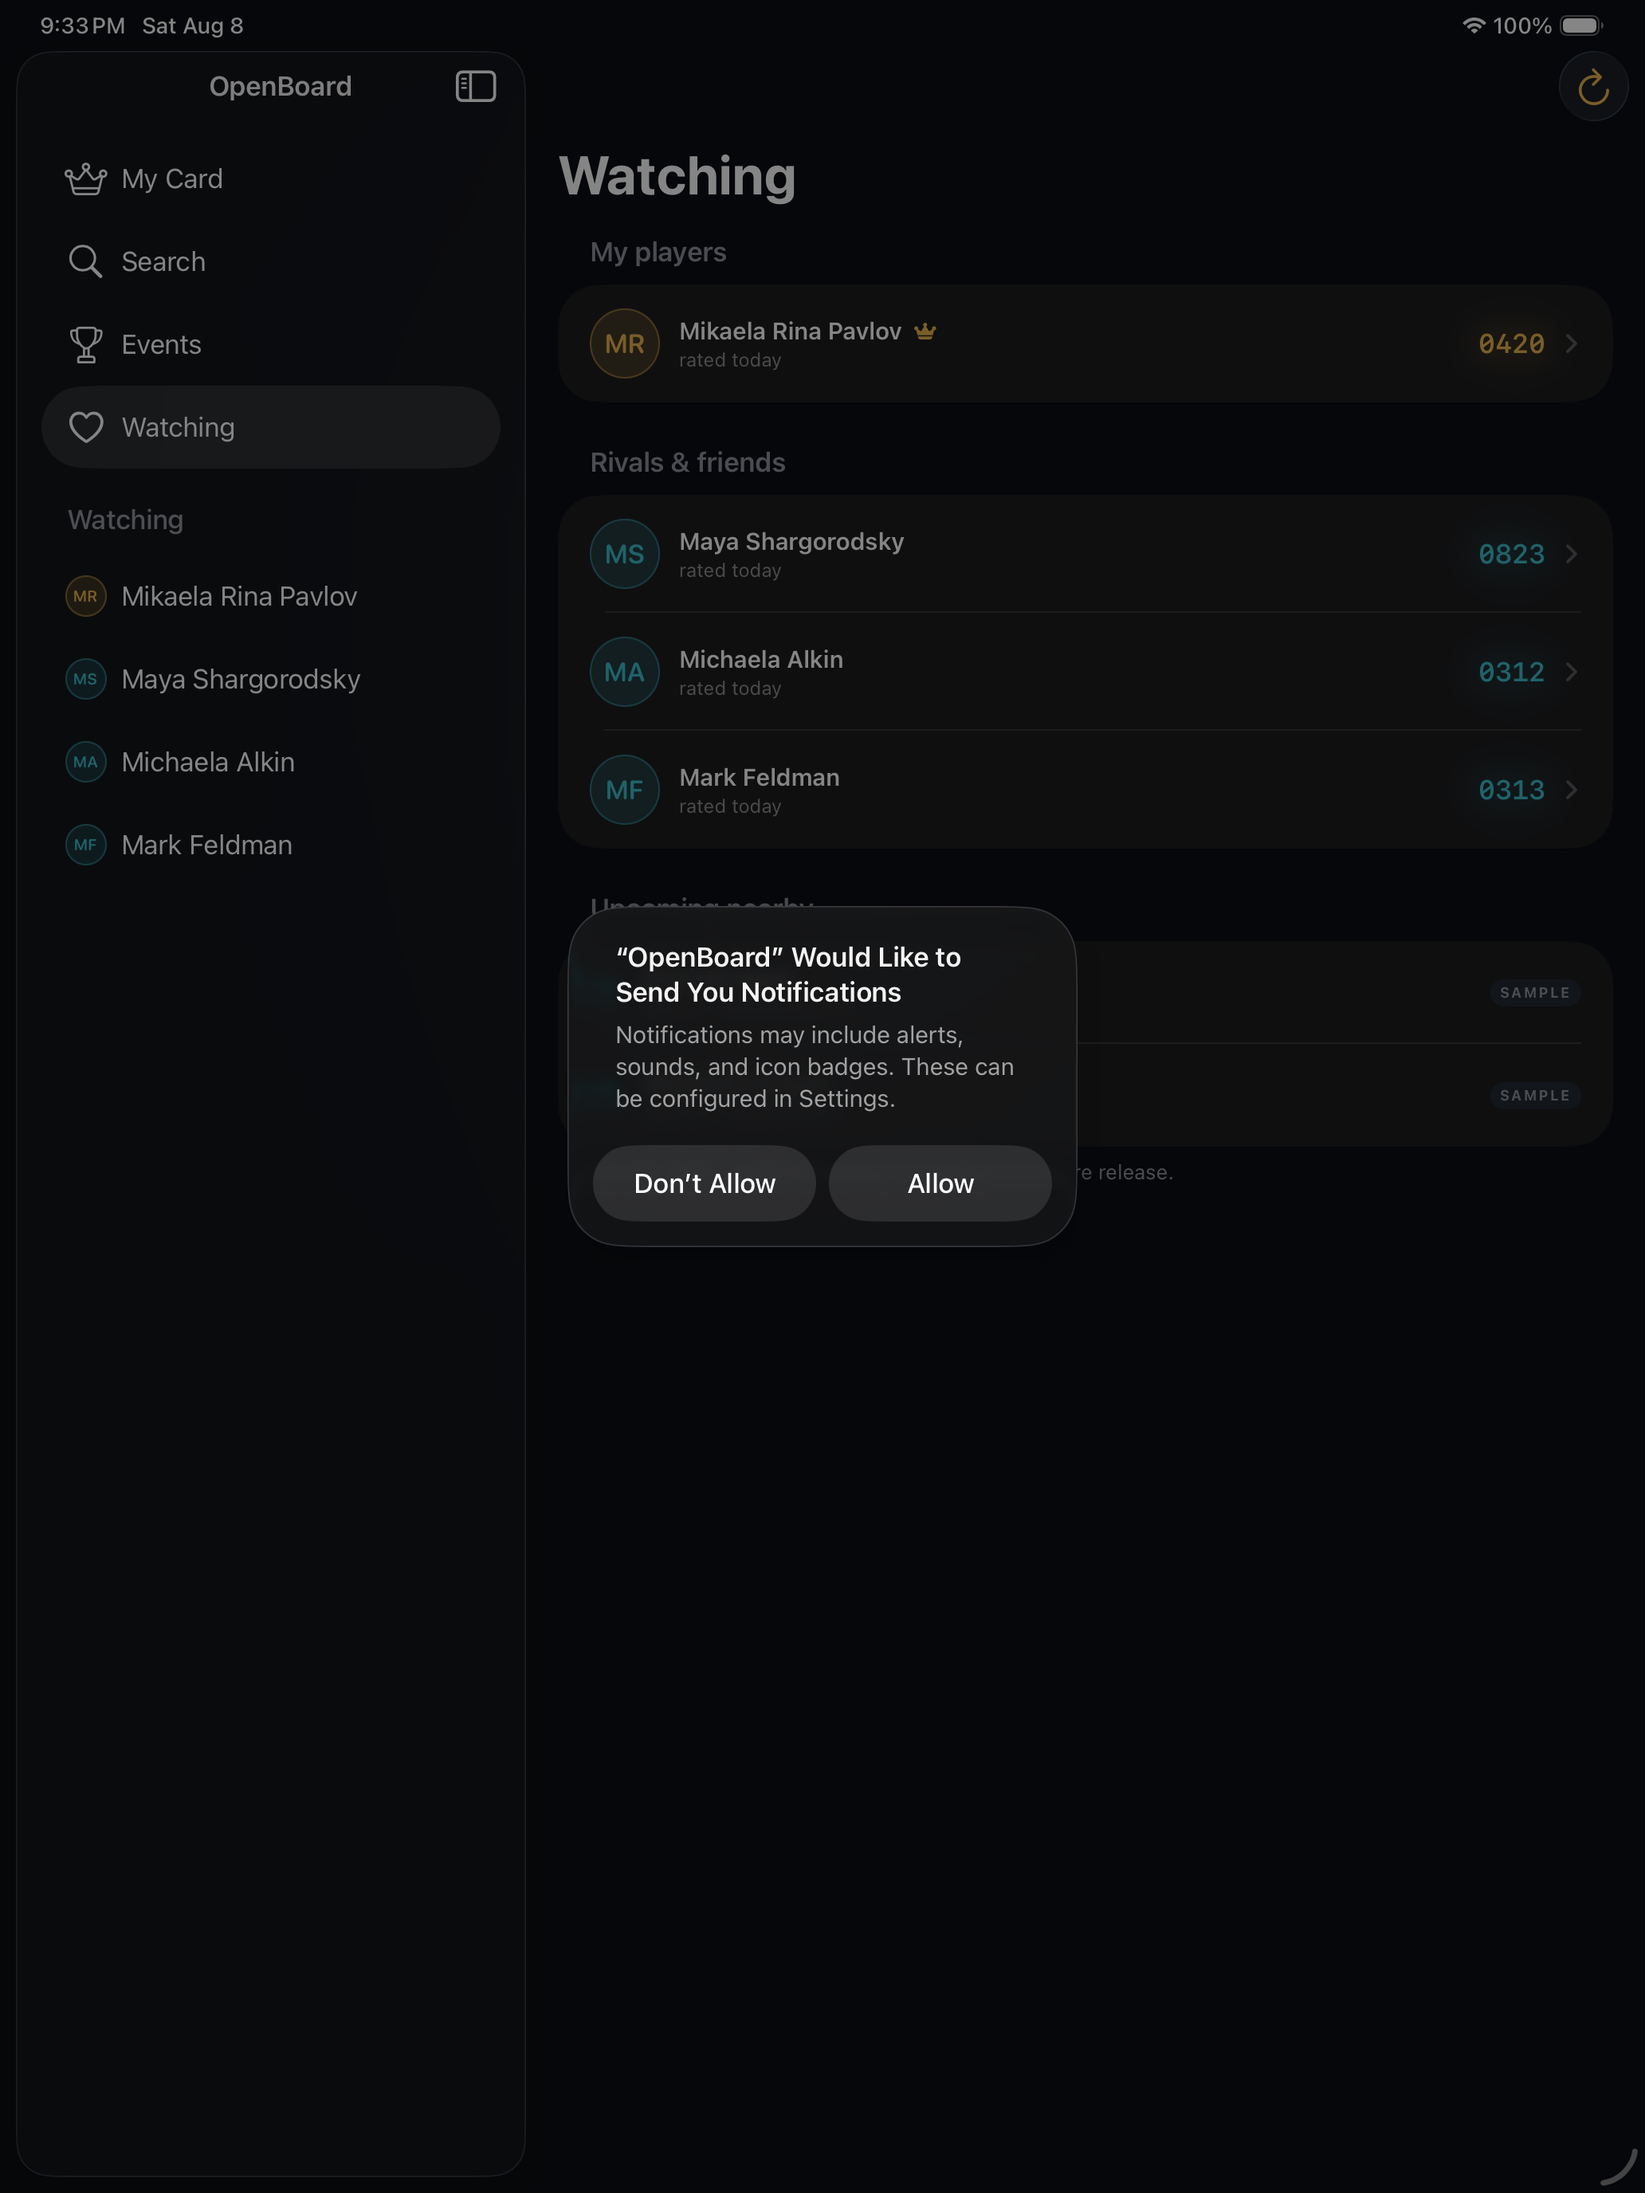
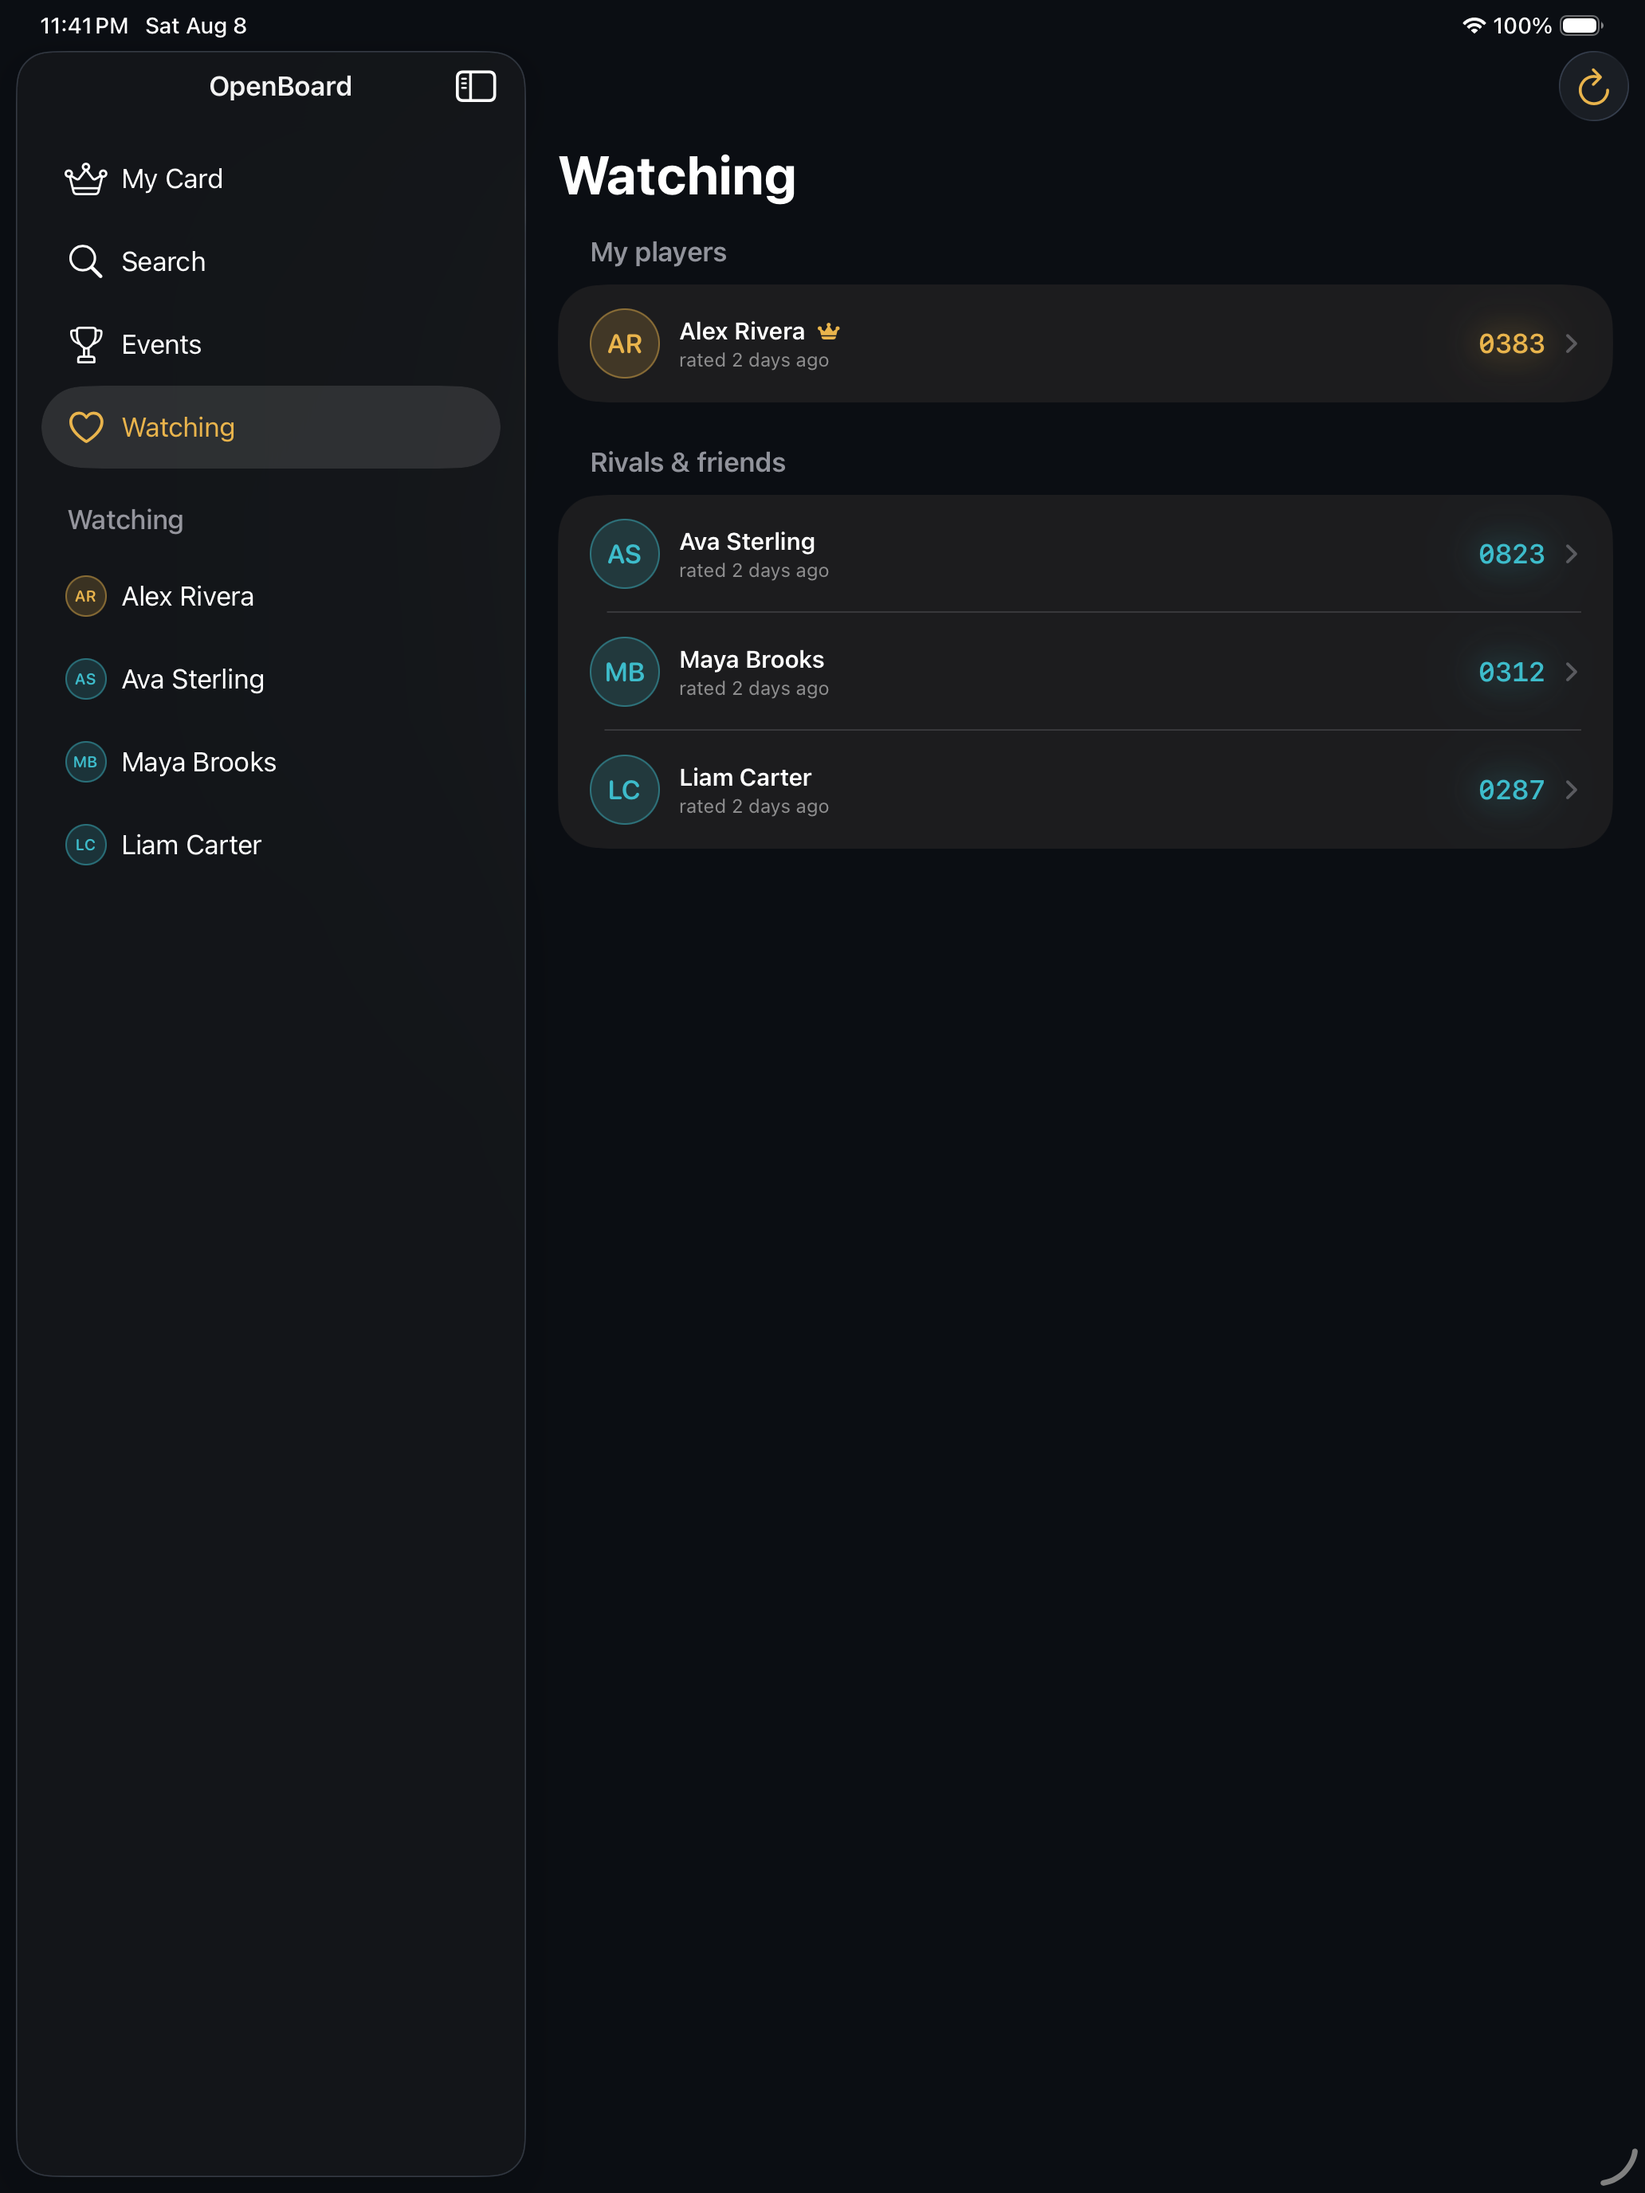
feat: screenshot demo-seed + refresh all screenshots (synthetic data, iPad set)
- Add -demoSeed launch flag to populate My Card / Watching for screenshots
- Re-capture all iPhone + iPad screenshots with synthetic sample player (no real data)
- Add iPad Watchlist screenshot; remove stale captures
- README: richer iPhone + iPad screenshot galleries

diff --git a/OpenBoard/App/AppModel.swift b/OpenBoard/App/AppModel.swift
@@ -52,6 +52,28 @@ final class AppModel {
         // No pre-seeded watchlist: the app launches empty. The user searches for
         // their own player (the first one watched becomes primary / "My Card")
         // and looks up tournaments by event ID.
+        if AppEnvironment.demoSeed { seedDemoWatchlist() }
+    }
+
+    /// Screenshot/demo only (`-demoSeed`): populate the watchlist with synthetic
+    /// sample players so My Card and Watching render with content.
+    private func seedDemoWatchlist() {
+        let ctx = container.mainContext
+        guard ((try? ctx.fetchCount(FetchDescriptor<WatchedPlayer>())) ?? 0) == 0 else { return }
+        let primary = MockRatingsService.samplePlayer
+        ctx.insert(WatchedPlayer(memberID: primary.id, name: primary.name, state: primary.state,
+                                 isPrimary: true, lastKnownRegular: primary.currentRegular,
+                                 lastKnownQuick: primary.currentQuick,
+                                 lastRatedDate: primary.events.first?.date, sortOrder: 0))
+        let rivals = MockRatingsService.sampleEvent.sections[0].players
+            .filter { $0.id != primary.id }.prefix(3)
+        for (index, s) in rivals.enumerated() {
+            ctx.insert(WatchedPlayer(memberID: s.id, name: s.name, state: s.state, isPrimary: false,
+                                     lastKnownRegular: s.regular?.post, lastKnownQuick: s.quick?.post,
+                                     lastRatedDate: MockRatingsService.sampleEvent.date,
+                                     sortOrder: index + 1))
+        }
+        try? ctx.save()
     }
 
     // MARK: - Watchlist helpers

diff --git a/OpenBoard/Services/RatingsProviding.swift b/OpenBoard/Services/RatingsProviding.swift
@@ -55,4 +55,10 @@ enum AppEnvironment {
     static var autoExpandHighlight: Bool {
         ProcessInfo.processInfo.arguments.contains("-expandHighlight")
     }
+
+    /// Demo/screenshot helper: seed the watchlist with synthetic sample players so
+    /// My Card / Watching render populated. Never used by the shipping app.
+    static var demoSeed: Bool {
+        ProcessInfo.processInfo.arguments.contains("-demoSeed")
+    }
 }

diff --git a/README.md b/README.md
@@ -317,19 +317,29 @@ All green on the iOS 26.5 simulator.
 - ✅ Unit + UI tests pass.
 - ✅ Dark-mode screenshots of every screen on iPhone 16 Pro and iPad Pro 13".
 
-## Screenshots
+## 📱 Screenshots
+
+> Shown with synthetic sample data — no real member's information is used.
 
 ### iPhone 16 Pro
-| My Card | Crosstable | Watchlist | Search |
-|---|---|---|---|
-| ![](Screenshots/iphone-mycard.png) | ![](Screenshots/iphone-event.png) | ![](Screenshots/iphone-watchlist.png) | ![](Screenshots/iphone-search.png) |
 
-Player profile (dual live/published): ![](Screenshots/iphone-profile.png)
+| My Card | Player profile | Crosstable (tap to expand) | Watchlist | Search |
+|:---:|:---:|:---:|:---:|:---:|
+| ![My Card](Screenshots/iphone-mycard.png) | ![Profile](Screenshots/iphone-profile.png) | ![Crosstable](Screenshots/iphone-event.png) | ![Watchlist](Screenshots/iphone-watchlist.png) | ![Search](Screenshots/iphone-search.png) |
 
-### iPad Pro 13" (NavigationSplitView)
-| My Card | Player profile | Crosstable |
-|---|---|---|
-| ![](Screenshots/ipad-mycard.png) | ![](Screenshots/ipad-profile.png) | ![](Screenshots/ipad-event.png) |
+### iPad Pro 13"  ·  `NavigationSplitView`
+
+On iPad, OpenBoard uses a sidebar (tabs + your watchlist) with a detail pane, and
+supports Slide Over, Split View, and Stage Manager.
+
+<p align="center">
+  <img alt="iPad My Card" src="Screenshots/ipad-mycard.png" width="49%">
+  <img alt="iPad Player profile" src="Screenshots/ipad-profile.png" width="49%">
+</p>
+<p align="center">
+  <img alt="iPad Crosstable" src="Screenshots/ipad-event.png" width="49%">
+  <img alt="iPad Watchlist" src="Screenshots/ipad-watchlist.png" width="49%">
+</p>
 
 ---
 
